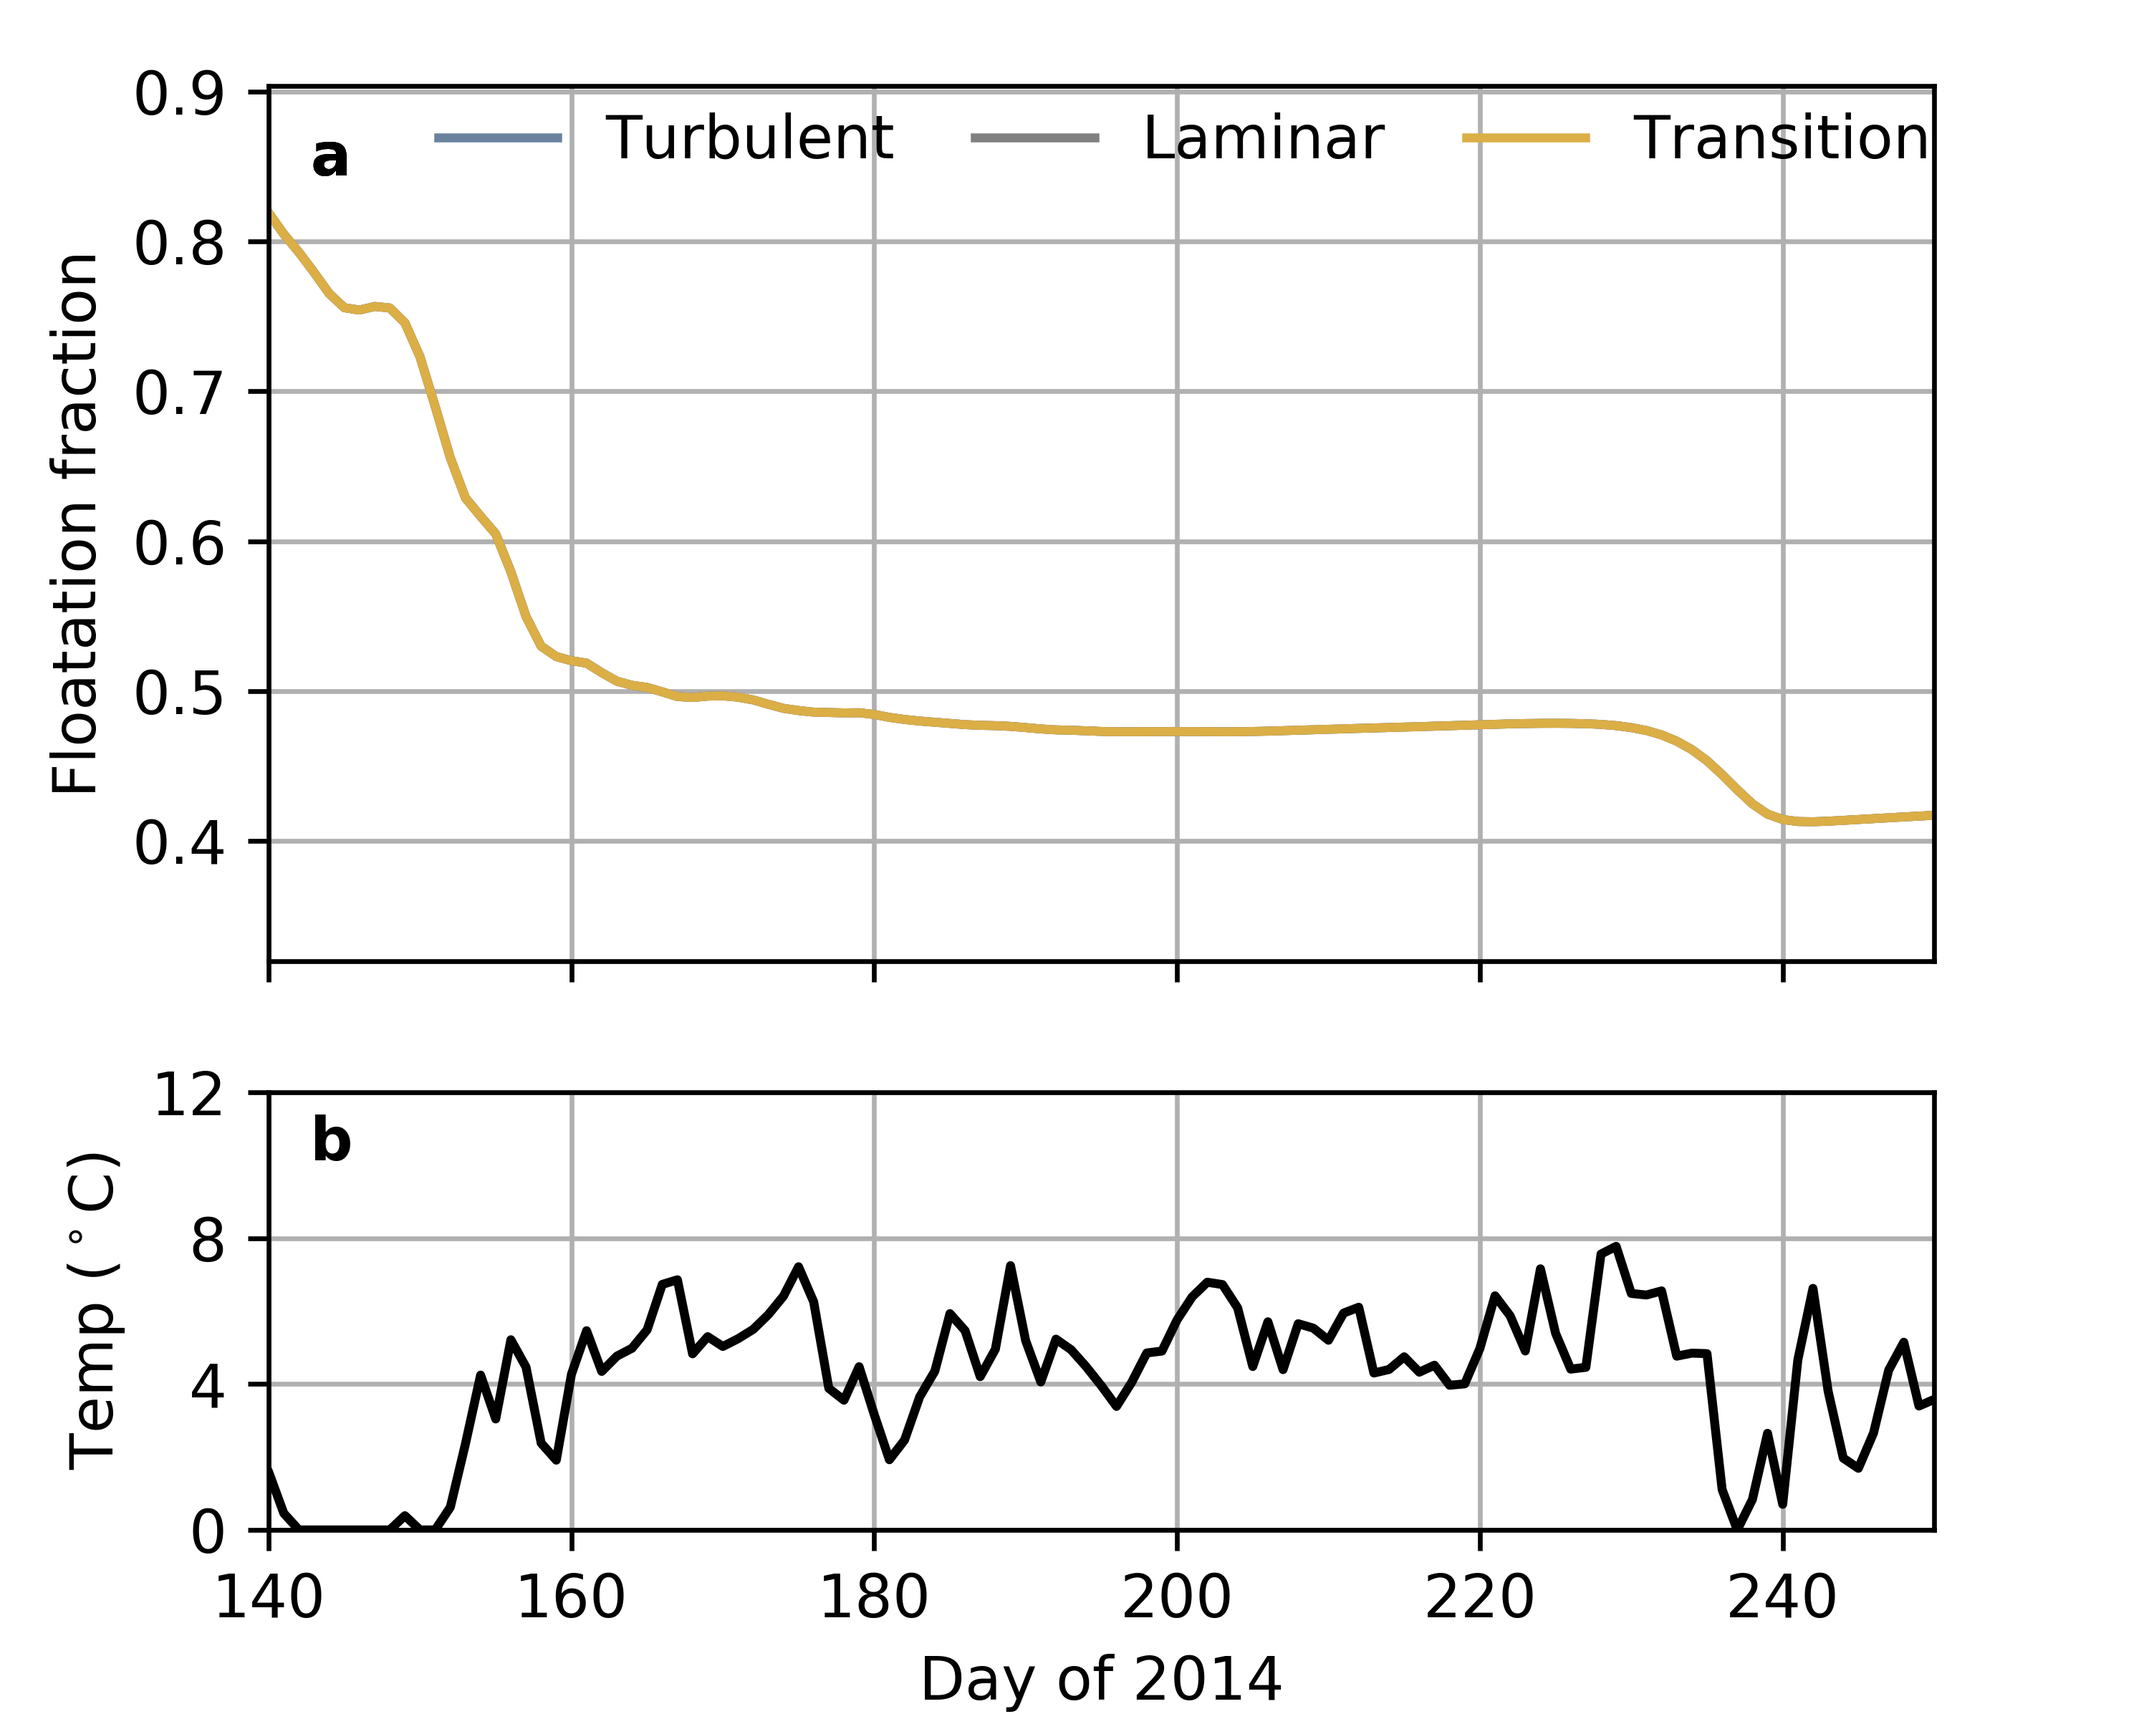
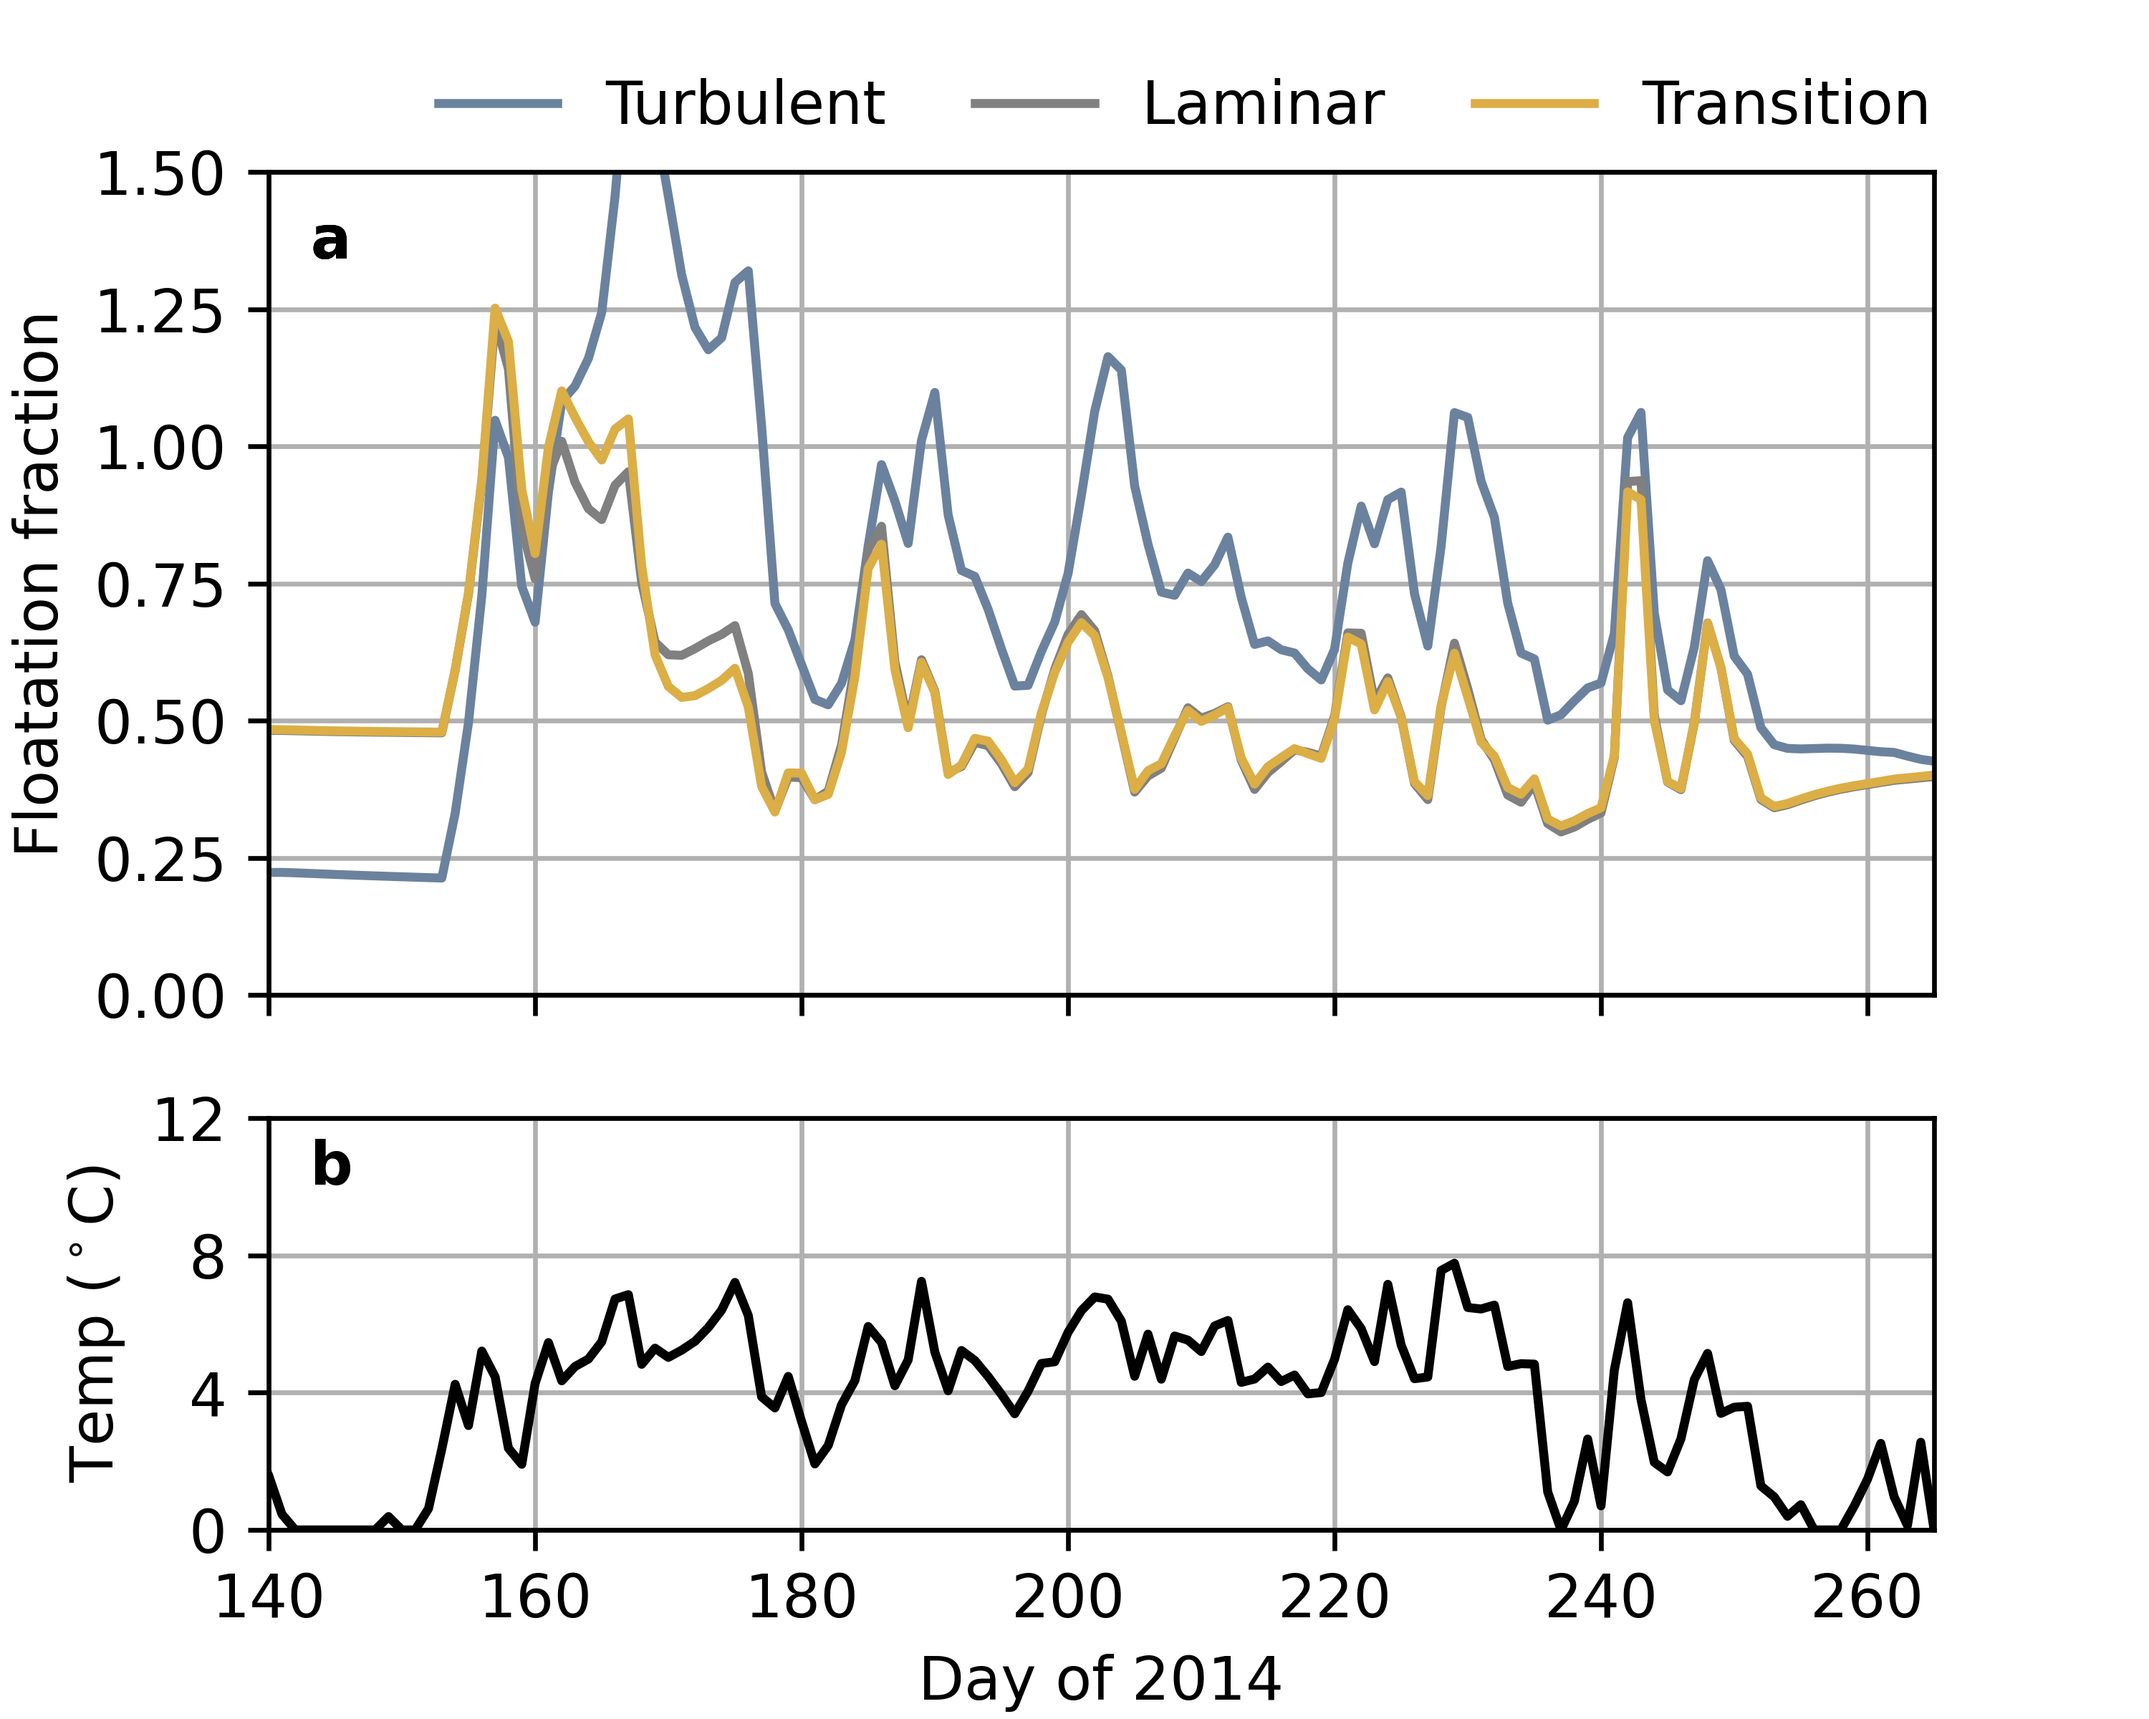
Actual data

diff --git a/analysis/EASC_research_day/plot_simple_timeseries.py b/analysis/EASC_research_day/plot_simple_timeseries.py
@@ -27,7 +27,7 @@ import helpers
 figsize=(5, 4)
 
 gs_kwargs=dict(wspace=0.05, hspace=0.2, 
-        height_ratios=(2, 1), top=0.95)
+        height_ratios=(2, 1), top=0.9)
 
 labels = ['Turbulent', 'Laminar', 'Transition']
 colors = np.array([[0.420, 0.510, 0.620, 1],
@@ -167,6 +167,8 @@ def plot_pressure_maps_timeseries(fnames, figname, tslice=182,
         timeax.text(0.025, 0.95, alphabet[0], transform=timeax.transAxes,
             va='top', ha='left', **text_args)
 
+        timeax.set_ylim([0, 1.5])
+
         out.close()
 
     melt = temp_fun(tt)
@@ -179,7 +181,7 @@ def plot_pressure_maps_timeseries(fnames, figname, tslice=182,
 
     ax_right.text(0.025, 0.95, alphabet[1], transform=ax_right.transAxes,
             va='top', ha='left', **text_args)
-    axs[0].legend(bbox_to_anchor=[0.1, 0.9, 0.9, 0.102], loc='lower left',
+    axs[0].legend(bbox_to_anchor=[0.1, 1.04, 0.9, 0.102], loc='lower left',
         ncol=3, mode='expand', borderaxespad=0.05, frameon=False, borderpad=0)
 
     for j in range(2):
@@ -199,14 +201,14 @@ if __name__ == '__main__':
     # t_ticks = [1 + 4/12, 1 + 6/12, 1 + 8/12, 1 + 10/12]
     # t_ticklabels = ['4', '6', '8', '10']
     # t_lim = [t_ticks[0], t_ticks[-1]]
-    t_lim = [140, 250]
+    t_lim = [140, 265]
     t_xlabel = 'Day of year'
 
     ## Case 01: Flat topo, KAN_L forcing
     KAN_tslice = 569
     # cases = [2, 3, 5]
     cases = [102, 103, 105]
-    pattern = '../glads/01_kan_l_forcing_shmip_topo/RUN/output_%03d_seasonal.nc'
+    pattern = '../../glads/01_kan_l_forcing_shmip_topo/RUN/output_%03d_seasonal.nc'
     # pattern = '../../glads/02a_shmip_forcing_valley_topo/RUN/output_%03d_seasonal.nc'
     fnames = [pattern % caseid for caseid in cases]
     figname = '01_pressure_simple.png'
